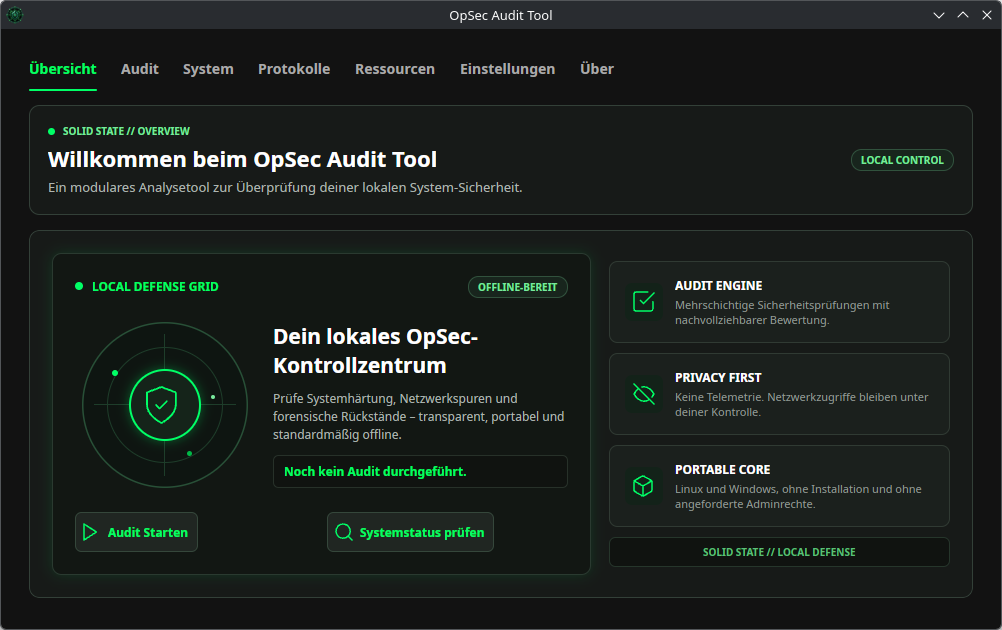
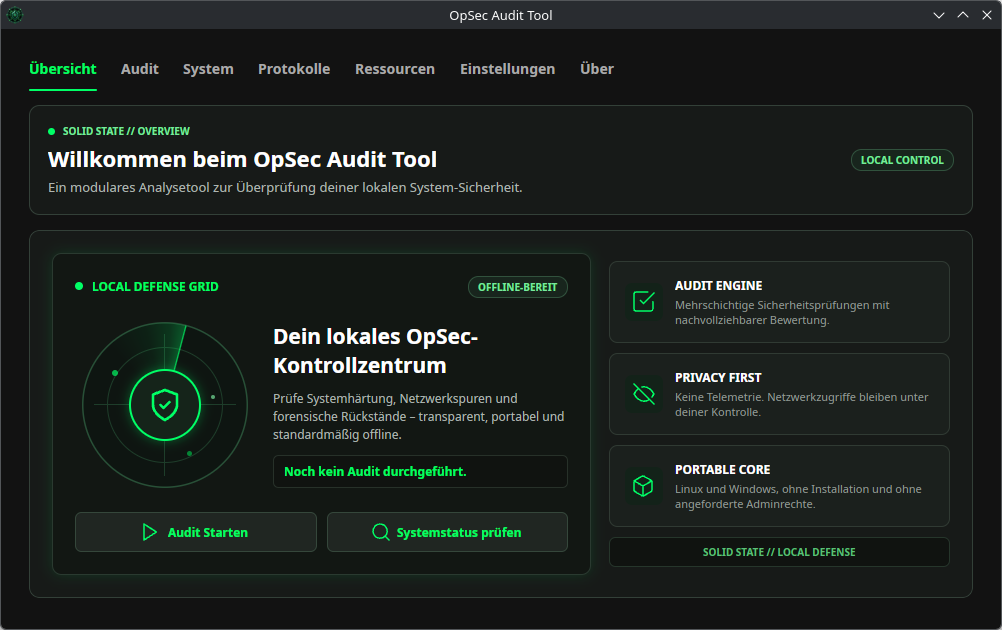
feat: polish overview radar and refresh release docs

Changed region(s): [[0.3403, 0.8143, 0.5259, 0.8746], [0.0928, 0.8143, 0.2475, 0.8746], [0.1238, 0.5127, 0.1856, 0.6635]]

diff --git a/Views/MainWindow.axaml.cs b/Views/MainWindow.axaml.cs
@@ -34,13 +34,19 @@ public sealed partial class MainWindow : Window
     private static readonly IBrush ExceptionBrush = CreateBrush("#FF8A8A");
 
     private DispatcherTimer? _waveTimer;
+    private DispatcherTimer? _radarTimer;
     private DispatcherTimer? _starTimer;
     private DispatcherTimer? _logFlushTimer;
     private DispatcherTimer? _profileTiltTimer;
     private readonly ConcurrentQueue<LogEntry> _pendingLogEntries = new();
     private readonly RotateTransform _profileRotateTransform = new();
     private readonly TranslateTransform _profileTranslateTransform = new();
+    private readonly RotateTransform _radarRotateTransform = new();
+    private readonly ScaleTransform _radarDotOneScale = new();
+    private readonly ScaleTransform _radarDotTwoScale = new();
+    private readonly ScaleTransform _radarDotThreeScale = new();
     private double _waveOffset;
+    private double _radarAngle;
     private TranslateTransform? _waveTranslate;
     private Action<LogEntry>? _logEntryHandler;
     private bool _followConsoleOutput;
@@ -59,6 +65,8 @@ public sealed partial class MainWindow : Window
         profileTransforms.Children.Add(_profileRotateTransform);
         profileTransforms.Children.Add(_profileTranslateTransform);
         ProfileImageFrameControl.RenderTransform = profileTransforms;
+
+        InitializeRadarAnimation();
 
         // Das Fenster erstellt sein ViewModel einmalig und verwendet es für alle Tabs.
         var vm = new MainViewModel();
@@ -299,7 +307,48 @@ public sealed partial class MainWindow : Window
     private void UpdateTabAnimations(int selectedTabIndex)
     {
         SetTimerState(_waveTimer, selectedTabIndex == 1);
+        SetTimerState(_radarTimer, selectedTabIndex == 0);
         SetTimerState(_starTimer, selectedTabIndex == 6);
+    }
+
+    /// <summary>
+    /// Dreht den Radarstrahl und lässt eine Markierung kurz aufleuchten, sobald
+    /// die Vorderkante des Strahls ihre Winkelposition erreicht. Die Animation
+    /// pausiert automatisch, sobald die Übersichtsseite nicht sichtbar ist.
+    /// </summary>
+    private void InitializeRadarAnimation()
+    {
+        RadarSweepLayer.RenderTransform = _radarRotateTransform;
+        RadarDotOne.RenderTransform = _radarDotOneScale;
+        RadarDotTwo.RenderTransform = _radarDotTwoScale;
+        RadarDotThree.RenderTransform = _radarDotThreeScale;
+
+        _radarTimer = new DispatcherTimer
+        {
+            // Rund 30 FPS reichen für den ruhigen Radar-Effekt und halten die
+            // Belastung des UI-Threads bewusst niedrig.
+            Interval = TimeSpan.FromMilliseconds(33)
+        };
+        _radarTimer.Tick += (_, _) =>
+        {
+            _radarAngle = (_radarAngle + 1.35) % 360;
+            _radarRotateTransform.Angle = _radarAngle;
+
+            UpdateRadarDot(RadarDotOne, _radarDotOneScale, 212.6);
+            UpdateRadarDot(RadarDotTwo, _radarDotTwoScale, 350.5);
+            UpdateRadarDot(RadarDotThree, _radarDotThreeScale, 63.2);
+        };
+    }
+
+    private void UpdateRadarDot(Ellipse dot, ScaleTransform scale, double dotAngle)
+    {
+        double distance = Math.Abs((_radarAngle - dotAngle + 540) % 360 - 180);
+        double pulse = Math.Max(0, 1 - distance / 18);
+        double renderedScale = 1 + pulse * 1.15;
+
+        scale.ScaleX = renderedScale;
+        scale.ScaleY = renderedScale;
+        dot.Opacity = 0.68 + pulse * 0.32;
     }
 
     private static void SetTimerState(DispatcherTimer? timer, bool shouldRun)
@@ -316,6 +365,26 @@ public sealed partial class MainWindow : Window
         else
         {
             timer.Stop();
+        }
+    }
+
+    /// <summary>
+    /// Die Schnellaktionen der Übersicht führen weiterhin ihren bisherigen
+    /// Befehl aus und öffnen zusätzlich den Bereich mit den zugehörigen Details.
+    /// </summary>
+    private void OverviewAuditButton_Click(object? sender, RoutedEventArgs e)
+    {
+        if (MainTabs != null)
+        {
+            MainTabs.SelectedIndex = 1;
+        }
+    }
+
+    private void OverviewSystemButton_Click(object? sender, RoutedEventArgs e)
+    {
+        if (MainTabs != null)
+        {
+            MainTabs.SelectedIndex = 2;
         }
     }
 
@@ -727,6 +796,7 @@ public sealed partial class MainWindow : Window
     {
         // DispatcherTimer laufen andernfalls weiter und halten das geschlossene Fenster am Leben.
         _waveTimer?.Stop();
+        _radarTimer?.Stop();
         _starTimer?.Stop();
         _logFlushTimer?.Stop();
         _profileTiltTimer?.Stop();

diff --git a/README.md b/README.md
@@ -42,11 +42,11 @@ bereit.
 
 ### Lokales OpSec-Kontrollzentrum
 
-![Übersicht des OpSec Audit Tools mit lokalem Kontrollzentrum](docs/images/overview.png)
+![Übersicht mit animiertem Radar und lokalem OpSec-Kontrollzentrum](docs/images/overview.png)
 
 ### System- und Sicherheits-Audit
 
-![Audit-Ansicht des OpSec Audit Tools vor dem ersten Prüflauf](docs/images/audit.png)
+![Audit-Ansicht mit Sicherheitsbewertung vor dem ersten Prüflauf](docs/images/audit.png)
 
 ## Eigenschaften
 
@@ -54,6 +54,7 @@ bereit.
 - Betrieb als normaler Benutzer ohne angeforderte Administrator- oder Root-Rechte
 - portable, selbstenthaltene Builds für Linux x64 und Windows x64
 - nachvollziehbare Bewertung mit Pass-, Warnungs- und Fehlerstatus
+- interaktives Kontrollzentrum mit animiertem Radar und direkten Schnellaktionen
 - lokale Protokolle und exportierbare Audit-Berichte
 - keine Werbung, keine extern geladenen Medien und keine Analyse-Telemetrie
 

diff --git a/docs/releases/v1.0.0.md b/docs/releases/v1.0.0.md
@@ -9,6 +9,8 @@ Der erste öffentliche Release des portablen OpSec Audit Tools von
 - nachvollziehbare Gesamtbewertung mit Warnungen und kritischen Ergebnissen
 - System- und Hardwarediagnose für Linux und Windows
 - farblich strukturierte Live-Protokollierung
+- einheitlich gestaltetes Kontrollzentrum mit animiertem Radar und direkter
+  Navigation zu Audit und Systemdiagnose
 - integrierte OpSec-Bibel und kuratierte Ressourcen
 - eigenes SolidStateNetwork-Programmsymbol für Fenster, Taskleiste und Windows-EXE
 - portabler Betrieb mit lokalen Einstellungen, Logs und Berichten
